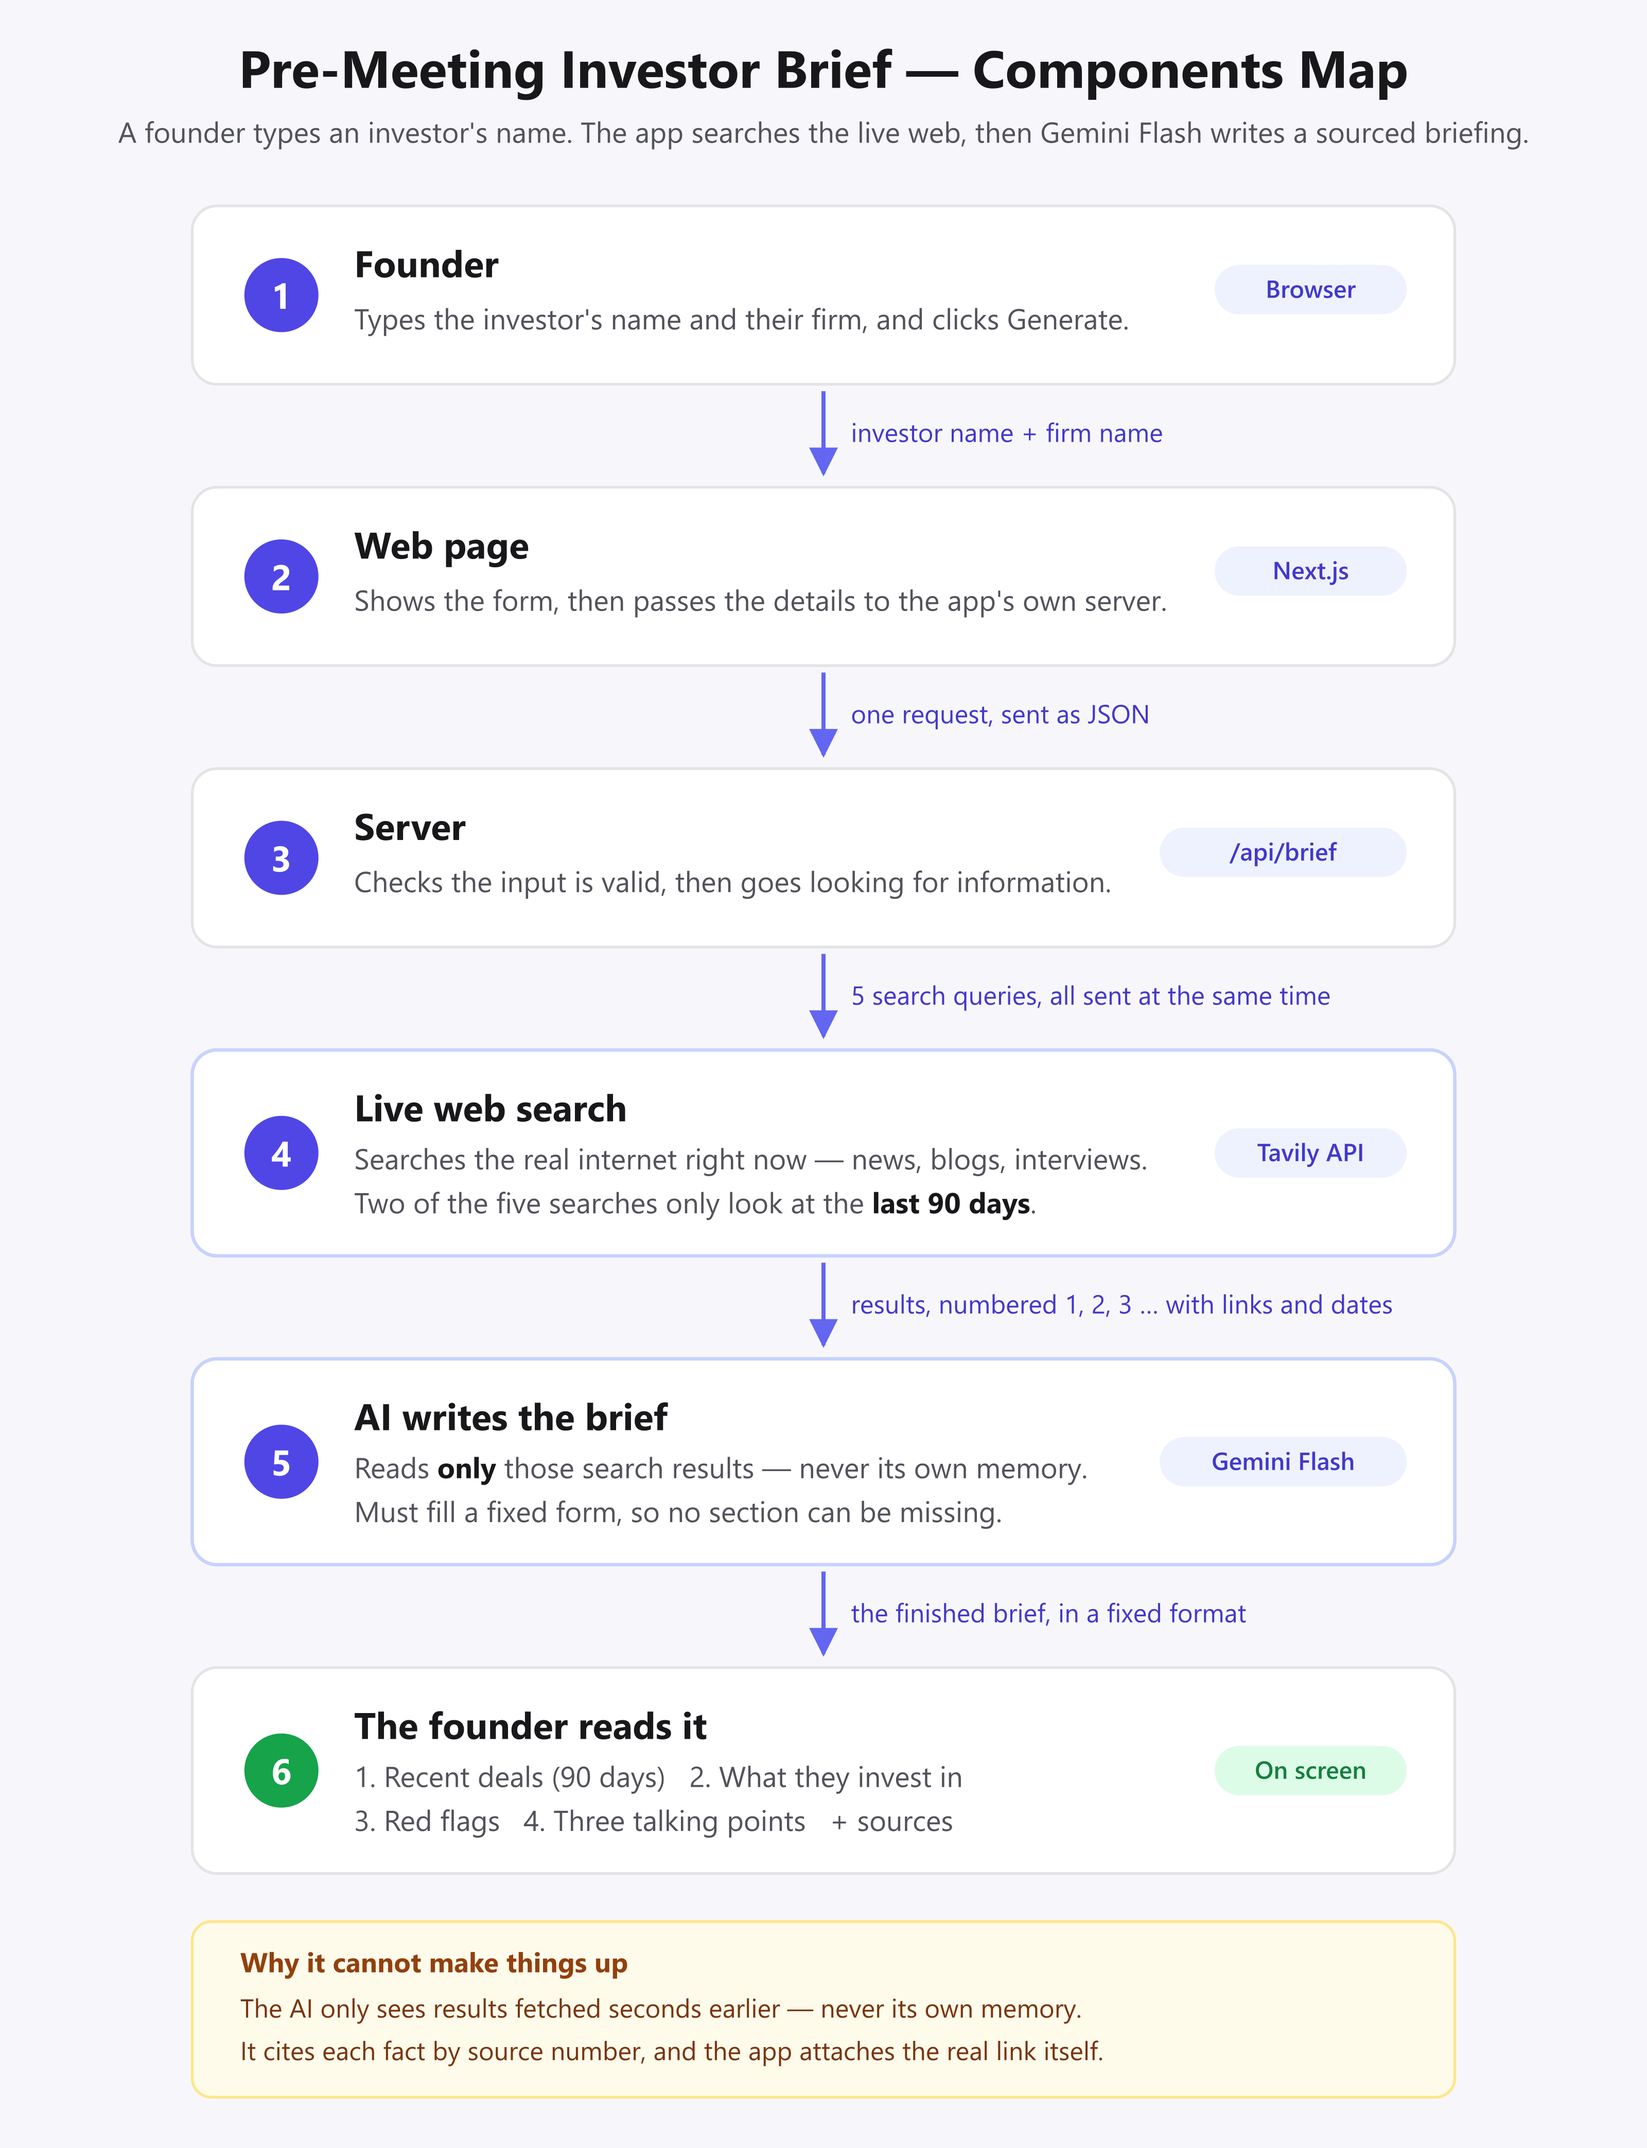
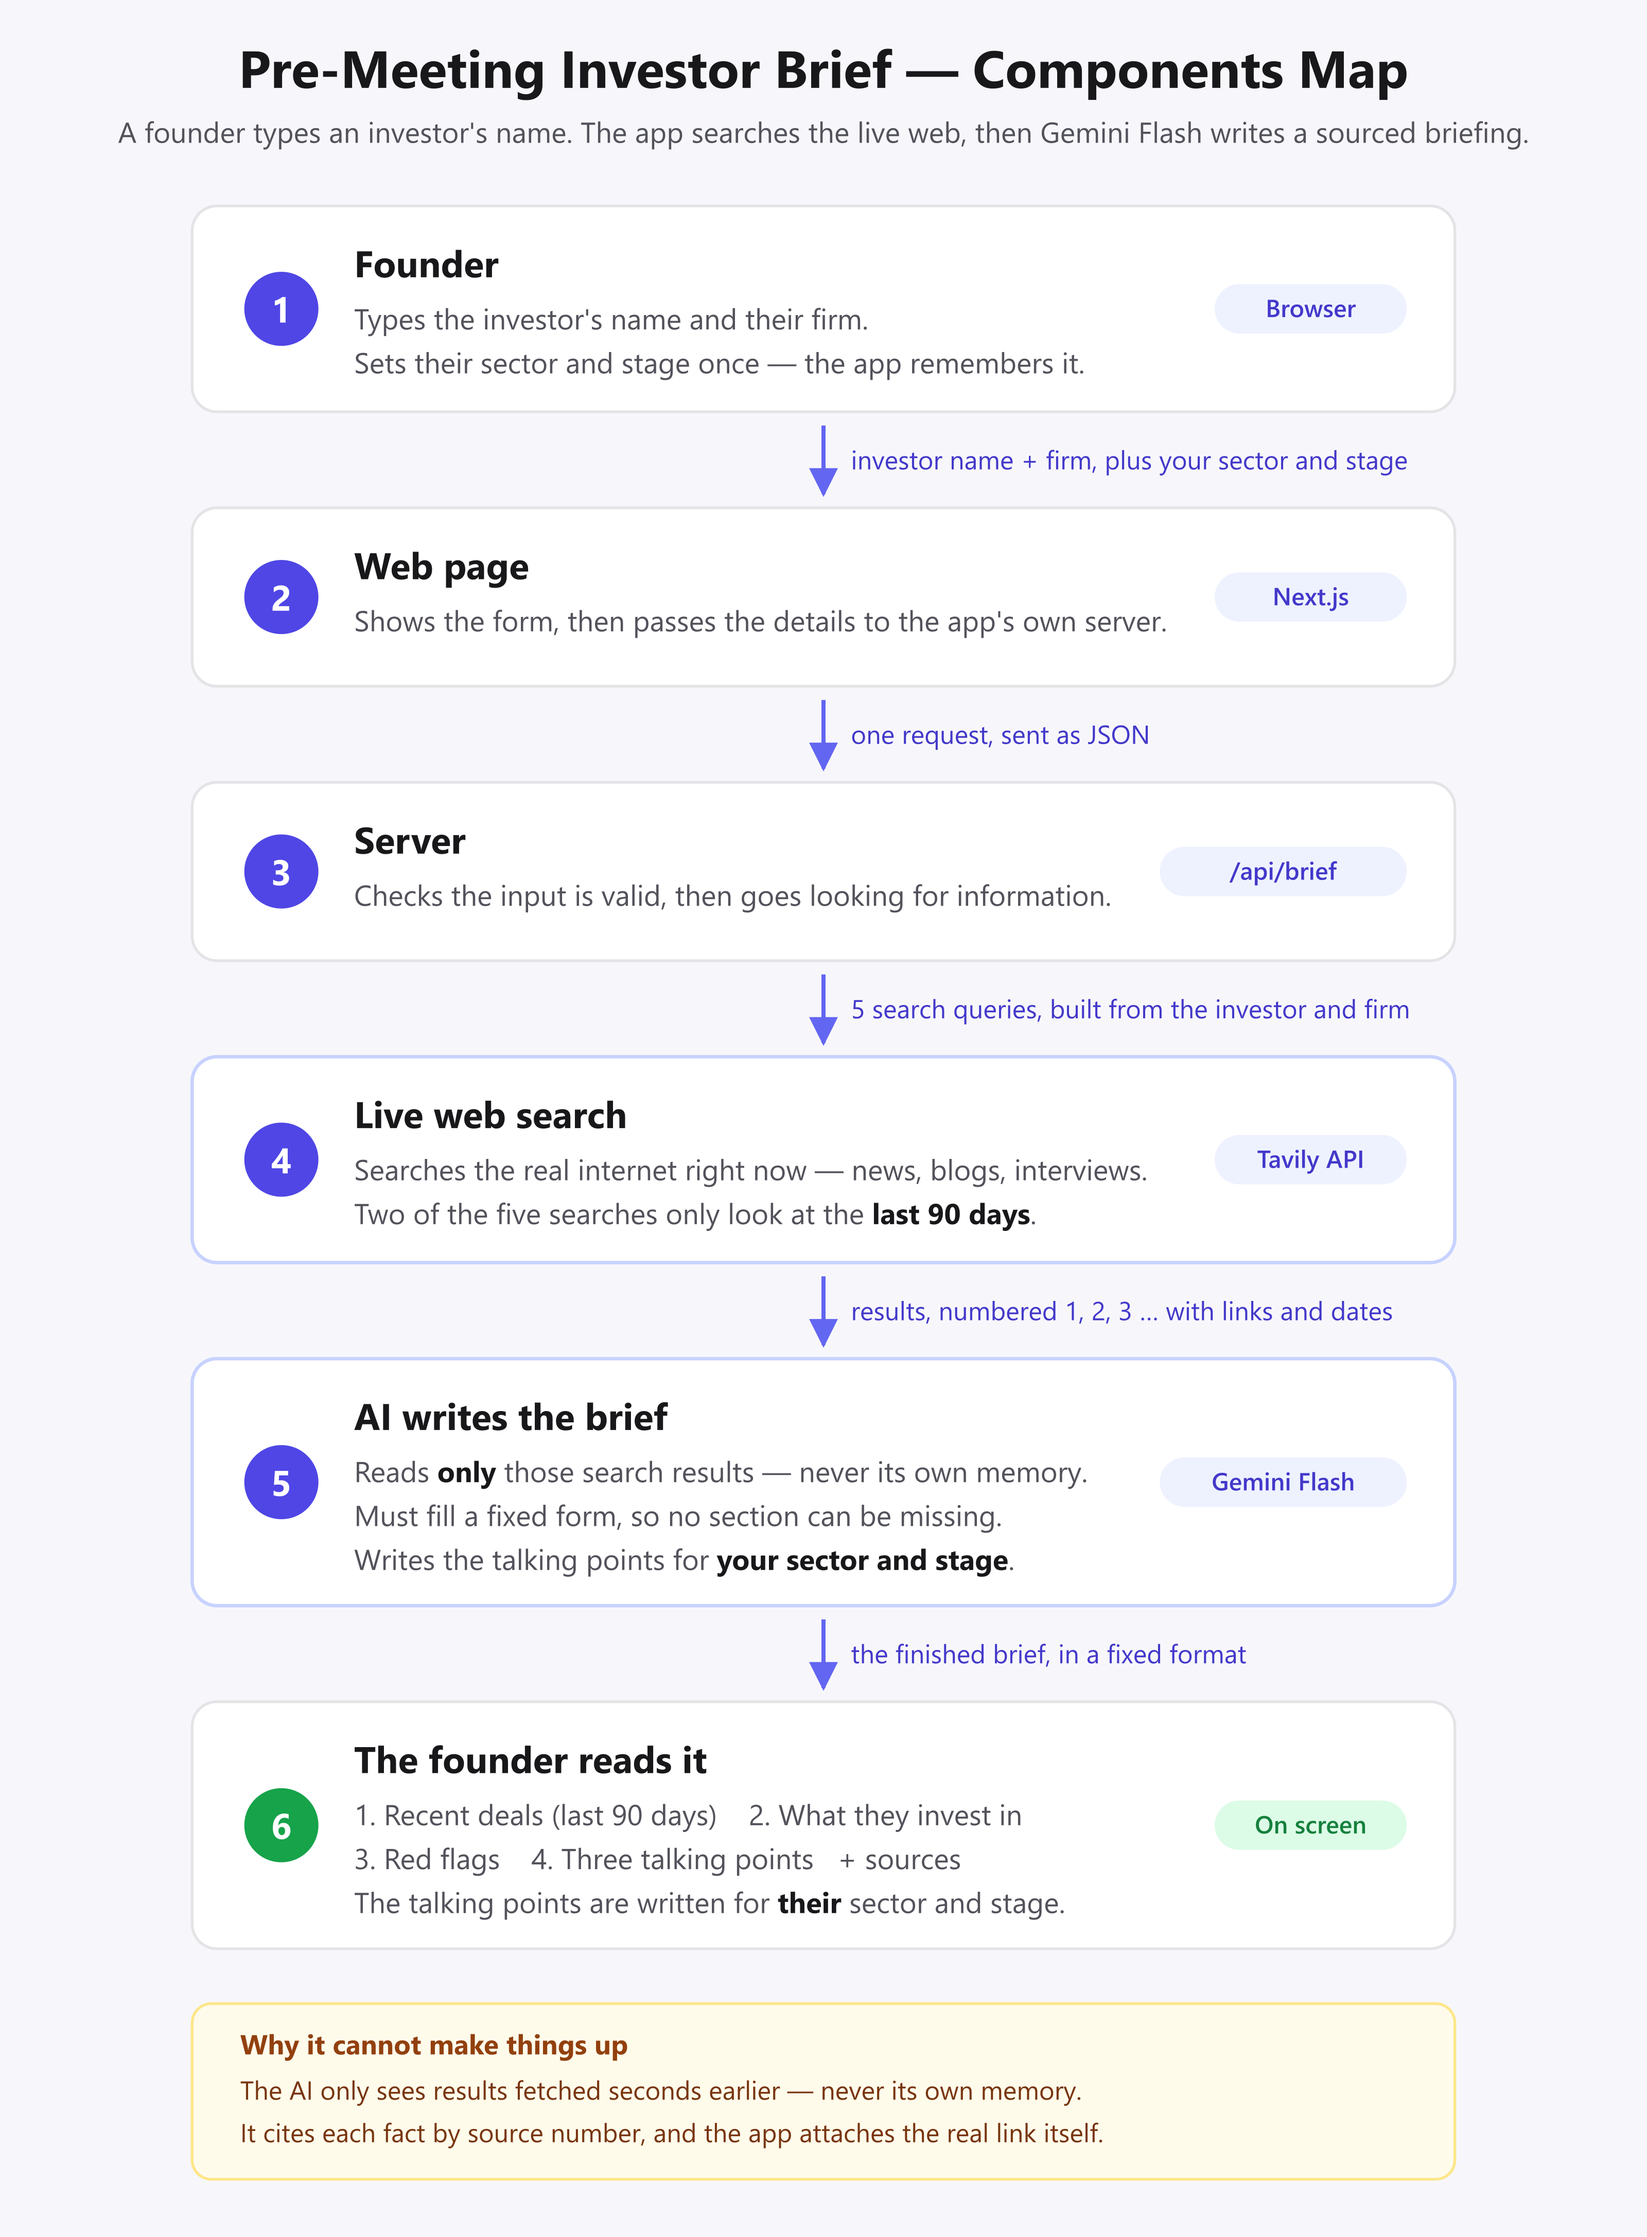
Show the sector and stage tailoring in the components map
The diagram labelled the first arrow "investor name + firm name", but
the request also carries the founder's sector and stage - and section 4
of the brief is required to be tailored to them. The map now shows that
input where it enters, what it is used for, and that it is not part of
the search queries.

Updated in the picture, the Mermaid source, the README and the in-app
components map page so all four agree.

diff --git a/app/components-map/page.tsx b/app/components-map/page.tsx
@@ -19,8 +19,8 @@ const DIAGRAM = `flowchart TD
     FE -->|"POST /api/brief<br/>JSON form data"| API
     API -->|"5 search queries at once<br/>2 of them limited to last 90 days"| TAV
     TAV -->|"titles, URLs, published dates,<br/>content snippets"| API
-    API -->|"prompt with today's date,<br/>numbered sources and JSON schema"| GEM
-    GEM -->|"structured JSON brief<br/>validated against the schema"| API
+    API -->|"today's date, numbered sources,<br/>her sector and stage, JSON schema"| GEM
+    GEM -->|"structured JSON brief, talking points<br/>tailored to her sector and stage"| API
     API -->|"brief + numbered sources<br/>+ generation time"| FE
     FE -->|"4 section cards, sources list,<br/>copy and print buttons"| U`;
 
@@ -64,8 +64,9 @@ export default function ComponentsMapPage() {
             Results are merged, de-duplicated by URL, and numbered into one source list.
           </li>
           <li>
-            That list, today&apos;s date, and the startup profile go to Gemini Flash with a strict
-            JSON schema, so the model must fill a fixed structure and cite real URLs.
+            That list, today&apos;s date, and her sector and stage go to Gemini Flash with a
+            strict JSON schema, so the model must fill a fixed structure, cite each fact by
+            source number, and write the three talking points for her sector and stage.
           </li>
           <li>
             The route returns the brief, the sources and the generation time; the frontend shows

diff --git a/README.md b/README.md
@@ -62,8 +62,8 @@ flowchart TD
     FE -->|"POST /api/brief<br/>JSON form data"| API
     API -->|"5 search queries at once<br/>2 of them limited to last 90 days"| TAV
     TAV -->|"titles, URLs, published dates,<br/>content snippets"| API
-    API -->|"prompt with today's date,<br/>numbered sources and JSON schema"| GEM
-    GEM -->|"structured JSON brief<br/>validated against the schema"| API
+    API -->|"today's date, numbered sources,<br/>her sector and stage, JSON schema"| GEM
+    GEM -->|"structured JSON brief, talking points<br/>tailored to her sector and stage"| API
     API -->|"brief + numbered sources<br/>+ generation time"| FE
     FE -->|"4 section cards, sources list,<br/>copy and print buttons"| U
 ```

diff --git a/docs/components-map.md b/docs/components-map.md
@@ -19,8 +19,8 @@ flowchart TD
     FE -->|"POST /api/brief<br/>JSON form data"| API
     API -->|"5 search queries at once<br/>2 of them limited to last 90 days"| TAV
     TAV -->|"titles, URLs, published dates,<br/>content snippets"| API
-    API -->|"prompt with today's date,<br/>numbered sources and JSON schema"| GEM
-    GEM -->|"structured JSON brief<br/>validated against the schema"| API
+    API -->|"today's date, numbered sources,<br/>her sector and stage, JSON schema"| GEM
+    GEM -->|"structured JSON brief, talking points<br/>tailored to her sector and stage"| API
     API -->|"brief + numbered sources<br/>+ generation time"| FE
     FE -->|"4 section cards, sources list,<br/>copy and print buttons"| U
 ```
